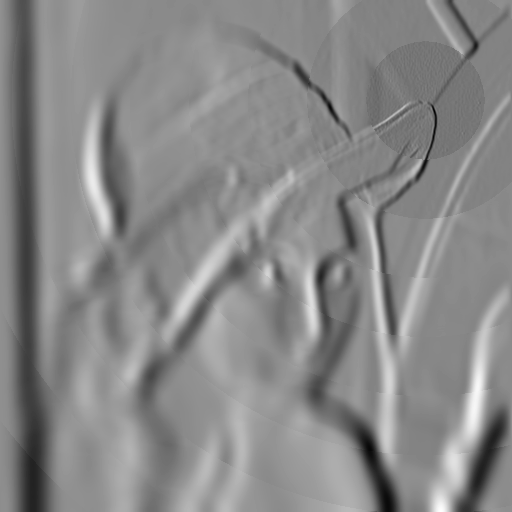
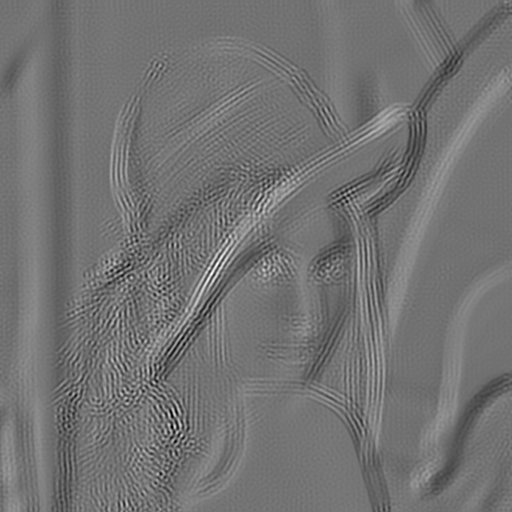
gabor mostly implemented, still a cropping bug

diff --git a/visual_system/src/main.py b/visual_system/src/main.py
@@ -222,13 +222,13 @@ def apply_filters(myImg, Zones, Filters, openCV=True):
         
         return im_out
     
-def gabor_filter(myImg):
+def gabor_filter(myImg, angle):
     
     sigma  = 1
-    theta = 1
-    g_lambda = 2
+    theta = angle
+    g_lambda = 0.5
     psi = np.pi/2
-    gamma = 0.5
+    gamma = 0.7
 
     sigma_x = sigma
     sigma_y = sigma/gamma
@@ -241,10 +241,14 @@ def gabor_filter(myImg):
     xmax = np.ceil(max(1,xmax))
     ymax = np.ceil(max(1,ymax))
     
+    xmax = 1
+    ymax = 1
     xmin = -xmax
     ymin = -ymax
+
     
-    numPts = 51   
+    
+    numPts = 21
     (x,y) = np.meshgrid(np.linspace(xmin, xmax, numPts), np.linspace(ymin, ymax, numPts) ) 
     
     # Rotation
@@ -252,9 +256,11 @@ def gabor_filter(myImg):
     y_theta = -x * np.sin(theta) + y * np.cos(theta)
     gb_values = np.array(np.exp( -0.5* (x_theta**2/sigma_x**2 + y_theta**2/sigma_y**2) ) * \
          np.cos( 2*np.pi/g_lambda*x_theta + psi ), dtype=np.float32)
+
+    gb_values = np.array(np.exp(-0.5*(x_theta**2+y_theta**2)/sigma**2)*np.cos(2.*np.pi*x_theta/g_lambda + psi),dtype=np.float32)
     
-    filtered = cv.filter2D(myImg.data, cv.CV_32F,gb_values)
-    return filtered
+    #filtered = cv.filter2D(myImg.data, cv.CV_32F, gb_values)
+    return gb_values
 
 def main(in_file=None):
     """Simulation of a retinal ipltant. The image can be selected, and the
@@ -264,14 +270,29 @@ def main(in_file=None):
     myImg = MyImages(in_file)
     Zones, Filters = make_zones_and_filters(myImg)
     filtered = apply_filters(myImg, Zones, Filters)
-    gabor_filtered = gabor_filter(myImg)
 
     # Show the results
     plt.imshow(filtered, "gray")
     plt.show()
-    plt.imshow(gabor_filtered, "gray")
+
     plt.show()
-    #myImg.save(filtered)
+    fig = plt.figure(figsize=(13, 8))
+    kernels = []
+    for i in range(6):
+        kernels.append(gabor_filter(myImg, np.pi/6 * i))
+        #fig.add_subplot(2, 3, i+1)
+        #plt.imshow(gabor_filtered, "gray")
+    
+    
+    filtered_array = np.array([cv.filter2D(myImg.data, cv.CV_32F, kernel) for kernel in kernels],
+                                   dtype=np.float32)
+       
+    #plt.show()
+    
+    gabor_sum = sum(filtered_array) / 1000000000
+    plt.imshow(gabor_sum, "gray")
+    plt.show()
+    myImg.save(gabor_sum)
     print("Done!")
 
 
